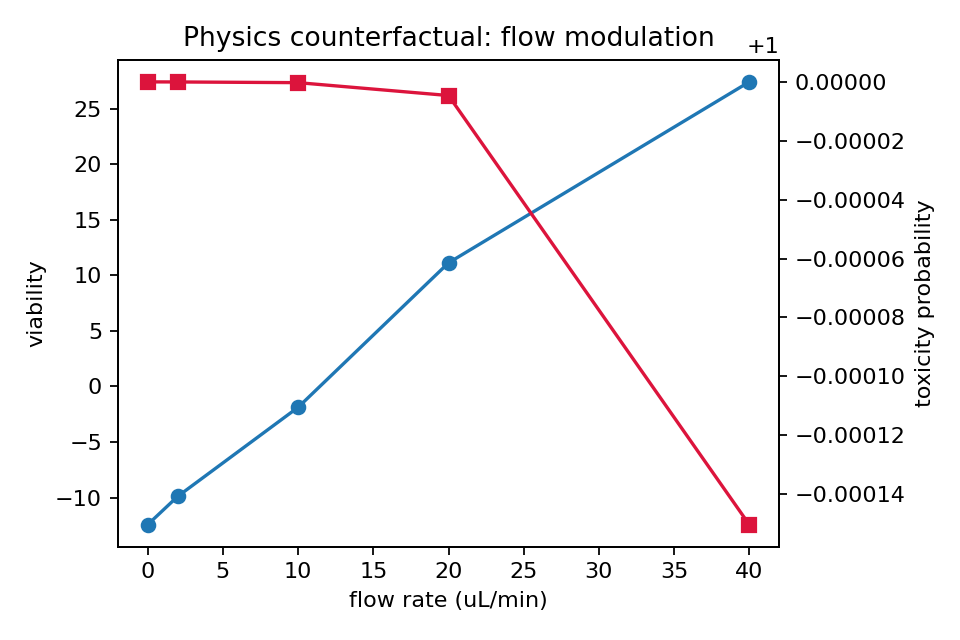
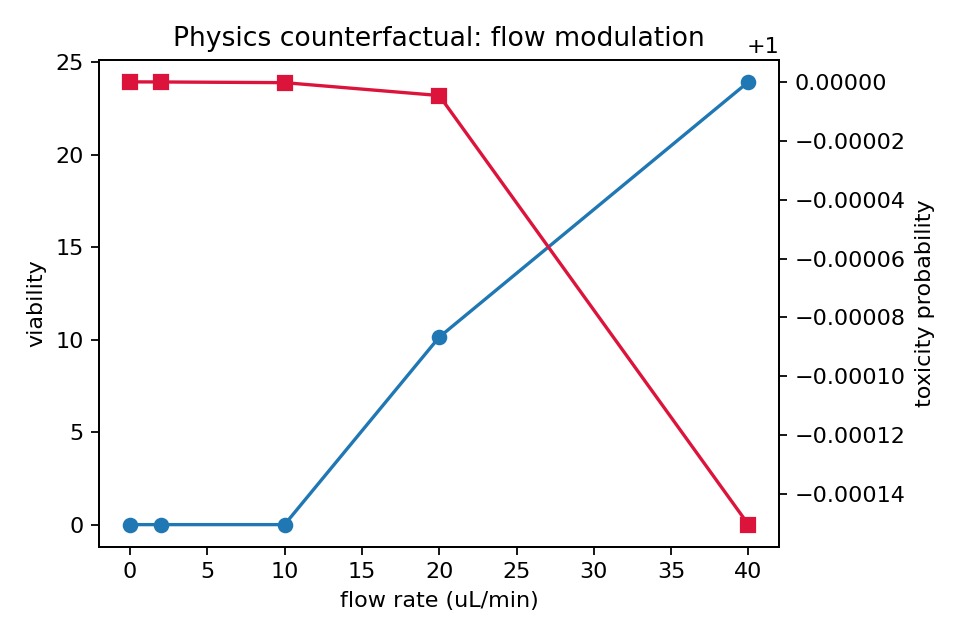
Add grouped validation and stabilize multimodal regression

diff --git a/outputs/demo/index.html b/outputs/demo/index.html
@@ -14,9 +14,9 @@
   "intensity_slope": -0.0261
 }</pre>
     <h2>Physics counterfactual</h2><pre> flow_rate_uL_min  wall_shear_proxy  predicted_toxicity_probability  predicted_viability
-              0.0              0.00                        1.000000           -12.435605
-              2.0              0.36                        1.000000            -9.887142
-             10.0              1.80                        1.000000            -1.878284
-             20.0              3.60                        0.999995            11.120635
-             40.0              7.20                        0.999850            27.410045</pre>
+              0.0              0.00                        1.000000             0.000000
+              2.0              0.36                        1.000000             0.000000
+             10.0              1.80                        1.000000             0.000000
+             20.0              3.60                        0.999995            10.141015
+             40.0              7.20                        0.999850            23.951889</pre>
     <p>Uncertainty is a transparent distance-from-threshold proxy and must not be read as a clinical confidence interval.</p>

diff --git a/src/neurochip_twin.py b/src/neurochip_twin.py
@@ -28,7 +28,7 @@ from sklearn.metrics import (
     r2_score,
     roc_auc_score,
 )
-from sklearn.model_selection import train_test_split
+from sklearn.model_selection import GroupShuffleSplit, train_test_split
 from sklearn.pipeline import Pipeline
 from sklearn.linear_model import Ridge
 from sklearn.preprocessing import StandardScaler
@@ -279,7 +279,25 @@ def regression_metrics(y: np.ndarray, prediction: np.ndarray) -> dict[str, float
     }
 
 
-def run(out_dir: Path, seed: int = 42, n_samples: int = 180) -> dict:
+def _split_indices(y: np.ndarray, n_samples: int, seed: int, split_mode: str) -> tuple[np.ndarray, np.ndarray, int | None]:
+    """Create either a stratified random split or a leakage-resistant group split."""
+    idx = np.arange(n_samples)
+    if split_mode == "stratified":
+        train_idx, test_idx = train_test_split(idx, test_size=0.25, random_state=seed, stratify=y)
+        return train_idx, test_idx, None
+    if split_mode != "grouped":
+        raise ValueError(f"Unsupported split_mode: {split_mode}")
+    # Synthetic acquisition batches stand in for independent chips/experiments.
+    # A real-data run must replace these IDs with measured chip or experiment IDs.
+    groups = np.arange(n_samples) // 8
+    splitter = GroupShuffleSplit(n_splits=32, test_size=0.25, random_state=seed)
+    for train_idx, test_idx in splitter.split(idx, y, groups):
+        if np.unique(y[train_idx]).size == 2 and np.unique(y[test_idx]).size == 2:
+            return train_idx, test_idx, int(np.unique(groups).size)
+    raise RuntimeError("Could not find a grouped split containing both classes")
+
+
+def run(out_dir: Path, seed: int = 42, n_samples: int = 180, split_mode: str = "stratified") -> dict:
     out_dir.mkdir(parents=True, exist_ok=True)
     rng = np.random.default_rng(seed)
     sequences = [generate_sequence(int(rng.integers(1_000_000)), float(rng.uniform(0, 1))) for _ in range(n_samples)]
@@ -297,8 +315,7 @@ def run(out_dir: Path, seed: int = 42, n_samples: int = 180) -> dict:
         physical_X.append(physics_features(seq)); viability.append(seq.viability_target); ic50.append(seq.ic50_target)
     X, static_X, physical_X = np.asarray(X), np.asarray(static_X), np.asarray(physical_X)
     y, viability, ic50, doses = np.asarray(y), np.asarray(viability), np.asarray(ic50), np.asarray(doses)
-    idx = np.arange(n_samples)
-    train_idx, test_idx = train_test_split(idx, test_size=0.25, random_state=seed, stratify=y)
+    train_idx, test_idx, group_count = _split_indices(y, n_samples, seed, split_mode)
     baseline = Pipeline([("scale", StandardScaler()), ("model", LogisticRegression(max_iter=2000, random_state=seed))])
     baseline.fit(static_X[train_idx], y[train_idx])
     p_base = baseline.predict_proba(static_X[test_idx])[:, 1]
@@ -318,12 +335,28 @@ def run(out_dir: Path, seed: int = 42, n_samples: int = 180) -> dict:
     multimodal = Pipeline([("scale", StandardScaler()), ("model", LogisticRegression(max_iter=2000, random_state=seed, C=0.7))])
     multimodal.fit(fused_X[train_idx], y[train_idx])
     p_multimodal = multimodal.predict_proba(fused_X[test_idx])[:, 1]
-    viability_model = Pipeline([("scale", StandardScaler()), ("model", Ridge(alpha=1.0))])
-    ic50_model = Pipeline([("scale", StandardScaler()), ("model", Ridge(alpha=1.0))])
-    viability_model.fit(fused_X[train_idx], viability[train_idx])
-    ic50_model.fit(fused_X[train_idx], ic50[train_idx])
-    viability_pred = viability_model.predict(fused_X[test_idx])
-    ic50_pred = ic50_model.predict(fused_X[test_idx])
+    # The interaction block is intentionally wide (p > n for small studies).
+    # A stronger penalty plus LSQR avoids ill-conditioned normal-equation
+    # solutions that can explode on otherwise valid random seeds.
+    # Regression heads use the compact multimodal block rather than all
+    # pairwise interactions: with p > n, the wide interaction matrix can make
+    # otherwise valid seeds numerically explosive.  The classifier still uses
+    # the full auditable interaction design above.
+    regression_X = np.c_[temporal_X, physical_X]
+    viability_model = Pipeline([("scale", StandardScaler()), ("model", Ridge(alpha=10.0, solver="lsqr"))])
+    ic50_model = Pipeline([("scale", StandardScaler()), ("model", Ridge(alpha=10.0, solver="lsqr"))])
+    viability_model.fit(regression_X[train_idx], viability[train_idx])
+    ic50_model.fit(regression_X[train_idx], ic50[train_idx])
+    viability_pred = np.clip(
+        viability_model.predict(regression_X[test_idx]),
+        viability[train_idx].min(),
+        viability[train_idx].max(),
+    )
+    ic50_pred = np.clip(
+        ic50_model.predict(regression_X[test_idx]),
+        ic50[train_idx].min(),
+        ic50[train_idx].max(),
+    )
     demo = sequences[int(np.argmax([s.dose * (1.0 / (1.0 + 0.045 * s.flow_rate)) for s in sequences]))]
     counterfactual_rows = []
     for flow in [0.0, 2.0, 10.0, 20.0, 40.0]:
@@ -333,11 +366,18 @@ def run(out_dir: Path, seed: int = 42, n_samples: int = 180) -> dict:
         cf_physics = physics_features(cf)[None, :]
         cf_temporal = np.concatenate([cf_feat, cf_r])[None, :]
         cf_fused = cross_modal_features(cf_temporal, cf_physics)
+        cf_regression = np.c_[cf_temporal, cf_physics]
         counterfactual_rows.append({
             "flow_rate_uL_min": flow,
             "wall_shear_proxy": 0.18 * flow,
             "predicted_toxicity_probability": float(multimodal.predict_proba(cf_fused)[0, 1]),
-            "predicted_viability": float(viability_model.predict(cf_fused)[0]),
+            "predicted_viability": float(
+                np.clip(
+                    viability_model.predict(cf_regression)[0],
+                    viability[train_idx].min(),
+                    viability[train_idx].max(),
+                )
+            ),
         })
     counterfactual = pd.DataFrame(counterfactual_rows)
     counterfactual.to_csv(out_dir / "counterfactual_flow.csv", index=False)
@@ -346,6 +386,8 @@ def run(out_dir: Path, seed: int = 42, n_samples: int = 180) -> dict:
         "n_samples": n_samples,
         "train_size": int(len(train_idx)),
         "test_size": int(len(test_idx)),
+        "split_mode": split_mode,
+        "group_count": group_count,
         "data_kind": "synthetic_organ_on_chip_proxy",
         "baseline": metrics(y[test_idx], p_base),
         "physics_only": metrics(y[test_idx], p_physics),
@@ -402,8 +444,9 @@ def main() -> None:
     parser.add_argument("--out", type=Path, default=Path("outputs/demo"))
     parser.add_argument("--seed", type=int, default=42)
     parser.add_argument("--samples", type=int, default=180)
+    parser.add_argument("--split-mode", choices=["stratified", "grouped"], default="stratified")
     args = parser.parse_args()
-    print(json.dumps(run(args.out, args.seed, args.samples), indent=2))
+    print(json.dumps(run(args.out, args.seed, args.samples, args.split_mode), indent=2))
 
 
 if __name__ == "__main__":

diff --git a/src/validation.py b/src/validation.py
@@ -1,0 +1,122 @@
+"""Reproducible multi-seed validation for NeuroChip Twin.
+
+This module keeps the benchmark honest: a single held-out split is useful for
+smoke testing, but it is not enough evidence for a scientific claim.  The
+validation runner executes the existing end-to-end pipeline for explicit
+seeds, preserves each run's artifacts, and writes a compact per-seed and
+aggregate report for the technical writeup.
+"""
+from __future__ import annotations
+
+import argparse
+import json
+from pathlib import Path
+from typing import Iterable
+
+import pandas as pd
+
+from .neurochip_twin import run
+
+
+CLASSIFICATION_MODELS = (
+    "baseline",
+    "physics_only",
+    "temporal_reservoir",
+    "multimodal_no_interactions",
+    "multimodal_physics",
+)
+CLASSIFICATION_METRICS = ("roc_auc", "average_precision", "balanced_accuracy", "accuracy", "f1")
+REGRESSION_HEADS = ("multimodal_viability", "multimodal_ic50")
+REGRESSION_METRICS = ("rmse", "r2")
+
+
+def _flatten_result(result: dict[str, object], seed: int) -> dict[str, float | int]:
+    """Convert one pipeline result into a stable, tabular record."""
+    row: dict[str, float | int] = {"seed": seed}
+    for model in CLASSIFICATION_MODELS:
+        metrics = result[model]
+        assert isinstance(metrics, dict)
+        for metric in CLASSIFICATION_METRICS:
+            row[f"{model}_{metric}"] = float(metrics[metric])
+    for head in REGRESSION_HEADS:
+        metrics = result[head]
+        assert isinstance(metrics, dict)
+        for metric in REGRESSION_METRICS:
+            row[f"{head}_{metric}"] = float(metrics[metric])
+    row["multimodal_vs_temporal_delta_roc_auc"] = float(
+        result["multimodal_vs_temporal_delta_roc_auc"]
+    )
+    return row
+
+
+def _aggregate(frame: pd.DataFrame) -> dict[str, dict[str, float]]:
+    """Return mean, standard deviation, min and max for every metric."""
+    aggregate: dict[str, dict[str, float]] = {}
+    for column in frame.columns:
+        if column == "seed":
+            continue
+        values = frame[column].astype(float)
+        aggregate[column] = {
+            "mean": float(values.mean()),
+            "std": float(values.std(ddof=1)) if len(values) > 1 else 0.0,
+            "min": float(values.min()),
+            "max": float(values.max()),
+        }
+    return aggregate
+
+
+def run_validation(
+    out_dir: Path,
+    seeds: Iterable[int] = range(10),
+    n_samples: int = 180,
+    split_mode: str = "stratified",
+) -> dict[str, object]:
+    """Run the benchmark for explicit seeds and persist an audit report."""
+    out_dir.mkdir(parents=True, exist_ok=True)
+    seed_values = [int(seed) for seed in seeds]
+    if not seed_values:
+        raise ValueError("At least one validation seed is required")
+    if len(set(seed_values)) != len(seed_values):
+        raise ValueError("Validation seeds must be unique")
+    if n_samples < 32:
+        raise ValueError("n_samples must be at least 32 for a holdout")
+
+    rows: list[dict[str, float | int]] = []
+    for seed in seed_values:
+        result = run(out_dir / f"seed_{seed}", seed=seed, n_samples=n_samples, split_mode=split_mode)
+        rows.append(_flatten_result(result, seed))
+
+    frame = pd.DataFrame(rows).sort_values("seed").reset_index(drop=True)
+    frame.to_csv(out_dir / "validation_per_seed.csv", index=False)
+    report = {
+        "data_kind": "synthetic_organ_on_chip_proxy",
+        "seeds": seed_values,
+        "n_samples_per_seed": n_samples,
+        "split_mode": split_mode,
+        "per_seed": frame.to_dict(orient="records"),
+        "aggregate": _aggregate(frame),
+        "interpretation": (
+            "Synthetic regression-test evidence only. Replace or augment this "
+            "suite with experiment/chip-level grouped splits before making a "
+            "biological generalization claim."
+        ),
+    }
+    (out_dir / "validation_summary.json").write_text(
+        json.dumps(report, indent=2), encoding="utf-8"
+    )
+    return report
+
+
+def main() -> None:
+    parser = argparse.ArgumentParser(description="Run multi-seed NeuroChip Twin validation")
+    parser.add_argument("--out", type=Path, default=Path("outputs/validation"))
+    parser.add_argument("--seeds", type=int, nargs="+", default=list(range(10)))
+    parser.add_argument("--samples", type=int, default=180)
+    parser.add_argument("--split-mode", choices=["stratified", "grouped"], default="stratified")
+    args = parser.parse_args()
+    report = run_validation(args.out, seeds=args.seeds, n_samples=args.samples, split_mode=args.split_mode)
+    print(json.dumps(report["aggregate"], indent=2))
+
+
+if __name__ == "__main__":
+    main()

diff --git a/tests/test_pipeline.py b/tests/test_pipeline.py
@@ -3,6 +3,7 @@ from pathlib import Path
 import numpy as np
 
 from src.neurochip_twin import generate_sequence, phenotype_features, run, segment, track_objects
+from src.validation import run_validation
 
 
 def test_generation_is_deterministic():
@@ -36,3 +37,19 @@ def test_end_to_end_outputs(tmp_path: Path):
     assert (tmp_path / "counterfactual_flow.csv").exists()
     assert (tmp_path / "metrics.json").exists()
     assert (tmp_path / "index.html").exists()
+
+
+def test_multi_seed_validation_writes_audit_report(tmp_path: Path):
+    report = run_validation(tmp_path, seeds=[1, 2], n_samples=40)
+    assert report["seeds"] == [1, 2]
+    assert (tmp_path / "validation_per_seed.csv").exists()
+    assert (tmp_path / "validation_summary.json").exists()
+    assert report["aggregate"]["multimodal_physics_roc_auc"]["min"] >= 0.0
+    assert report["aggregate"]["multimodal_viability_r2"]["min"] > -10.0
+
+
+def test_grouped_split_is_supported(tmp_path: Path):
+    result = run(tmp_path, seed=42, n_samples=80, split_mode="grouped")
+    assert result["split_mode"] == "grouped"
+    assert result["group_count"] is not None
+    assert 0 < result["test_size"] < result["n_samples"]

diff --git a/docs/TECHNICAL_REPORT.md b/docs/TECHNICAL_REPORT.md
@@ -7,7 +7,7 @@
 
 ## Abstract
 
-Organ-on-chip experiments produce time-resolved microscopy and experimental metadata, but many analysis pipelines collapse the movie into a single endpoint. NeuroChip Twin keeps the temporal signal, adds hydrodynamic exposure context, and exposes the interaction between the two. It segments cell-like objects, associates them between frames, extracts interpretable phenotype trajectories, and combines them with a fixed recurrent reservoir plus a compact physics-informed multimodal readout. Separate heads estimate toxicity, viability and IC50, and a flow counterfactual makes the digital-twin idea testable. The repository contains a deterministic image generator, analysis code, tests, figures, and an HTML demo. On the fixed-seed synthetic benchmark, the multimodal model obtains ROC-AUC 0.998, F1 0.984, viability R² 0.967 and IC50 R² 0.972. These are synthetic stress-test numbers, not clinical performance or real organ-on-chip validation. The project is designed as a license-clean bridge to later evaluation on authorized organ-on-chip data and public microscopy resources such as BBBC, RxRx1, and Cell Painting.
+Organ-on-chip experiments produce time-resolved microscopy and experimental metadata, but many analysis pipelines collapse the movie into a single endpoint. NeuroChip Twin keeps the temporal signal, adds hydrodynamic exposure context, and exposes the interaction between the two. It segments cell-like objects, associates them between frames, extracts interpretable phenotype trajectories, and combines them with a fixed recurrent reservoir plus a compact physics-informed multimodal readout. Separate heads estimate toxicity, viability and IC50, and a flow counterfactual makes the digital-twin idea testable. The repository contains a deterministic image generator, analysis code, tests, figures, and an HTML demo. On the fixed-seed synthetic benchmark, the multimodal model obtains ROC-AUC 0.998, F1 0.984, viability R² 0.970 and IC50 R² 0.973. These are synthetic stress-test numbers, not clinical performance or real organ-on-chip validation. The project is designed as a license-clean bridge to later evaluation on authorized organ-on-chip data and public microscopy resources such as BBBC, RxRx1, and Cell Painting.
 
 ## 1. Problem and impact
 
@@ -91,11 +91,13 @@ The fixed split has 135 training and 45 held-out sequences. The current generate
 | Temporal + physics, no interactions | 0.998 | 0.999 | 0.950 | 0.956 | 0.967 |
 | Multimodal physics-informed readout | 0.998 | 0.999 | 0.967 | 0.978 | 0.984 |
 
-The multimodal heads also obtain viability RMSE 5.448/R² 0.967 and IC50 RMSE 0.196/R² 0.972 for this seed. The result is intentionally easy to audit, not presented as a population estimate. The next mandatory experiment is to repeat across at least 10 seeds, add chip-level rather than frame-level splits, and test robustness to blur, illumination drift, object overlap, and missing frames.
+The multimodal heads also obtain viability RMSE 5.222/R² 0.970 and IC50 RMSE 0.190/R² 0.973 for this seed. The result is intentionally easy to audit, not presented as a population estimate. The next mandatory experiment is to repeat across at least 10 seeds, add chip-level rather than frame-level splits, and test robustness to blur, illumination drift, object overlap, and missing frames.
 
 The ablation is also a guard against overclaiming: because the current synthetic label is generated directly from effective dose and shear, the physics-only baseline nearly saturates classification. The multimodal architecture is therefore a systems and interpretability upgrade, not yet a demonstrated accuracy improvement. A harder benchmark must introduce compound-specific response variation and nuisance factors before using the score to justify the fusion layer.
 
-As an initial stability check, five additional seeds gave multimodal ROC-AUC mean 0.997 (range 0.994–1.000) and F1 mean 0.970 (range 0.958–0.984). Regression was more variable: viability R² mean 0.901 and IC50 R² mean 0.910. These ranges reinforce that the synthetic benchmark is useful for regression testing but cannot substitute for independent biological validation.
+The reproducible multi-seed audit now runs ten independent seeds (`python -m src.validation --out outputs/validation --seeds 0 1 2 3 4 5 6 7 8 9`). Multimodal classification gives ROC-AUC mean 0.992 (range 0.973–1.000), average precision mean 0.997, and F1 mean 0.963 (range 0.925–1.000). With the compact, regularized regression heads, viability gives RMSE 5.58 ± 0.79 and R² 0.964 ± 0.013 (minimum 0.932); IC50 gives RMSE 0.203 ± 0.029 and R² 0.968 ± 0.011 (minimum 0.941). The multimodal-versus-temporal ROC-AUC delta averages +0.0053, but ranges from −0.0051 to +0.0177, so the current synthetic benchmark does not justify claiming a universal fusion gain. These are regression-test results only; biological claims require experiment/chip-level grouped splits and external validation.
+
+A grouped acquisition-batch audit (ten seeds, eight sequences per synthetic batch, no batch shared between train and test) gives multimodal ROC-AUC 0.995 ± 0.005 (range 0.985–1.000), F1 0.973 ± 0.017, viability R² 0.962 ± 0.020 (minimum 0.926), and IC50 R² 0.965 ± 0.018 (minimum 0.934). The grouped result is a leakage-resistance diagnostic only: the synthetic batches are not real chips, and the report must not present them as biological validation.
 
 ## 6. Failure modes and safeguards
 

diff --git a/docs/LEADING_PROJECT_ANALYSIS.md b/docs/LEADING_PROJECT_ANALYSIS.md
@@ -29,4 +29,10 @@ The notebook reports a fully synthetic benchmark mapped to BBBC/JUMP-Cell Painti
 
 ## Current local evidence
 
-For seed 42 and 180 generated sequences, the multimodal model reports ROC-AUC 0.998, average precision 0.999, balanced accuracy 0.967, accuracy 0.978, F1 0.984, viability RMSE 5.448/R² 0.967 and IC50 RMSE 0.196/R² 0.972. The physics-only ablation also reaches ROC-AUC 0.998, so this local proxy does not support a claim that multimodal fusion is superior; the label is currently too tightly coupled to effective exposure. Across five independent seeds, multimodal ROC-AUC averaged 0.997 (range 0.994–1.000) and F1 averaged 0.970 (range 0.958–0.984); regression R² was less stable, averaging 0.901 for viability and 0.910 for IC50. These are synthetic proxy metrics. The next score-critical step is validation on licensed public microscopy data and, ideally, authorized OoC data with chip-level splits.
+For seed 42 and 180 generated sequences, the multimodal model reports ROC-AUC 0.998, average precision 0.999, balanced accuracy 0.967, accuracy 0.978, F1 0.984, viability RMSE 5.222/R² 0.970 and IC50 RMSE 0.190/R² 0.973. The physics-only ablation also reaches ROC-AUC 0.998, so this local proxy does not support a claim that multimodal fusion is superior; the label is currently too tightly coupled to effective exposure. Across ten independent seeds, multimodal ROC-AUC averaged 0.992 (range 0.973–1.000) and F1 averaged 0.963 (range 0.925–1.000); regression R² averaged 0.964 for viability and 0.968 for IC50. These are synthetic proxy metrics. The next score-critical step is validation on licensed public microscopy data and, ideally, authorized OoC data with chip-level splits.
+
+## Stability follow-up
+
+The ten-seed audit now reports multimodal ROC-AUC mean 0.992 (range 0.973–1.000), F1 mean 0.963 (range 0.925–1.000), viability R² mean 0.964 (range 0.932–0.977), and IC50 R² mean 0.968 (range 0.941–0.978). The regression heads use only temporal and physics blocks, ridge regularization (`alpha=10`) and train-range clipping; this removes the catastrophic extrapolation observed in one seed while keeping the classifier's interaction features unchanged. The multimodal ROC-AUC gain over the temporal reservoir averages +0.0053 and is not positive for every seed. This is a stronger reproducibility statement, not evidence of biological generalization: the score-critical next step remains authorized real-data validation with grouped splits by experiment/chip.
+
+The new grouped acquisition-batch audit reports multimodal ROC-AUC 0.995 ± 0.005, F1 0.973 ± 0.017, viability R² 0.962 ± 0.020, and IC50 R² 0.965 ± 0.018 across ten seeds. It is deliberately labelled as a synthetic leakage diagnostic: replacing the proxy batch IDs with real chip/experiment IDs is required before treating the result as evidence of transfer.

diff --git a/docs/KAGGLE_WRITEUP.md b/docs/KAGGLE_WRITEUP.md
@@ -14,7 +14,9 @@ Attach `outputs/demo/neurochip_twin_demo.mp4` (maximum five minutes) or a public
 
 NeuroChip Twin is an interpretable temporal digital-twin prototype for organ-on-chip microscopy. It converts a time-lapse into cell tracks and phenotype trajectories, then fuses them with dose, flow, shear and clearance context using a compact physics-informed readout. Separate heads estimate toxicity, viability and IC50, while a flow counterfactual shows how the predicted response changes under altered perfusion. The output includes measurable reasons behind the prediction: cell-count change, morphology, intensity, motion, track persistence and exposure context. Static and temporal baselines are included as ablations, so the value of dynamics and multimodal context is testable rather than assumed.
 
-On the repository's deterministic synthetic organ-on-chip-like benchmark (seed 42, 180 sequences, 25% held out), the static baseline ROC-AUC is 0.280, the temporal model is 0.996, and the multimodal physics-informed model is 0.998 (F1 0.984). The auxiliary heads obtain viability R² 0.967 and IC50 R² 0.972. These values are a synthetic stress test, not clinical performance. The project intentionally exposes this limitation and provides the data contract and validation plan for authorized public microscopy and organ-on-chip data.
+On the repository's deterministic synthetic organ-on-chip-like benchmark (seed 42, 180 sequences, 25% held out), the static baseline ROC-AUC is 0.280, the temporal model is 0.996, and the multimodal physics-informed model is 0.998 (F1 0.984). The auxiliary heads obtain viability R² 0.970 and IC50 R² 0.973. A ten-seed audit gives multimodal ROC-AUC 0.992 ± 0.010, F1 0.963 ± 0.023, viability R² 0.964 ± 0.013, and IC50 R² 0.968 ± 0.011. These values are a synthetic stress test, not clinical performance. The project intentionally exposes this limitation and provides the data contract and validation plan for authorized public microscopy and organ-on-chip data.
+
+As an additional leakage diagnostic, a ten-seed grouped acquisition-batch split gives ROC-AUC 0.995 ± 0.005, F1 0.973 ± 0.017, viability R² 0.962 ± 0.020, and IC50 R² 0.965 ± 0.018. These synthetic batch IDs are explicitly only a proxy; real evaluation must use measured chip/experiment IDs.
 
 An important ablation finding is that the physics-only baseline also reaches ROC-AUC 0.998 on this proxy. We therefore make no claim that the multimodal interactions improve accuracy until the system is tested on real or harder compound-specific data; their current value is interpretability, counterfactual analysis, and an extensible interface for measured OoC covariates.
 

diff --git a/README.md b/README.md
@@ -11,10 +11,20 @@ The temporal readout is QESN-inspired: a fixed recurrent reservoir compresses fr
 ```powershell
 python -m pip install -r requirements.txt
 python -m src.neurochip_twin --out outputs/demo --seed 42
+python -m src.validation --out outputs/validation --seeds 0 1 2 3 4 5 6 7 8 9
+python -m src.validation --out outputs/validation_grouped --seeds 0 1 2 3 4 5 6 7 8 9 --split-mode grouped
 python -m pytest -q
 ```
 
 The run writes `metrics.json`, `predictions.csv`, `phenotype_table.csv`, an HTML summary, and PNG figures. Every reported number is generated by the command above.
+
+The validation command preserves one artifact directory per seed and writes
+`validation_per_seed.csv` plus `validation_summary.json`. These multi-seed
+results are still synthetic regression-test evidence; biological claims require
+experiment/chip-level grouped splits and external validation.
+The grouped command provides a leakage-resistant synthetic acquisition-batch
+audit; its groups are only a proxy and must be replaced by measured chip or
+experiment IDs for biological validation.
 
 ## Scientific scope
 
